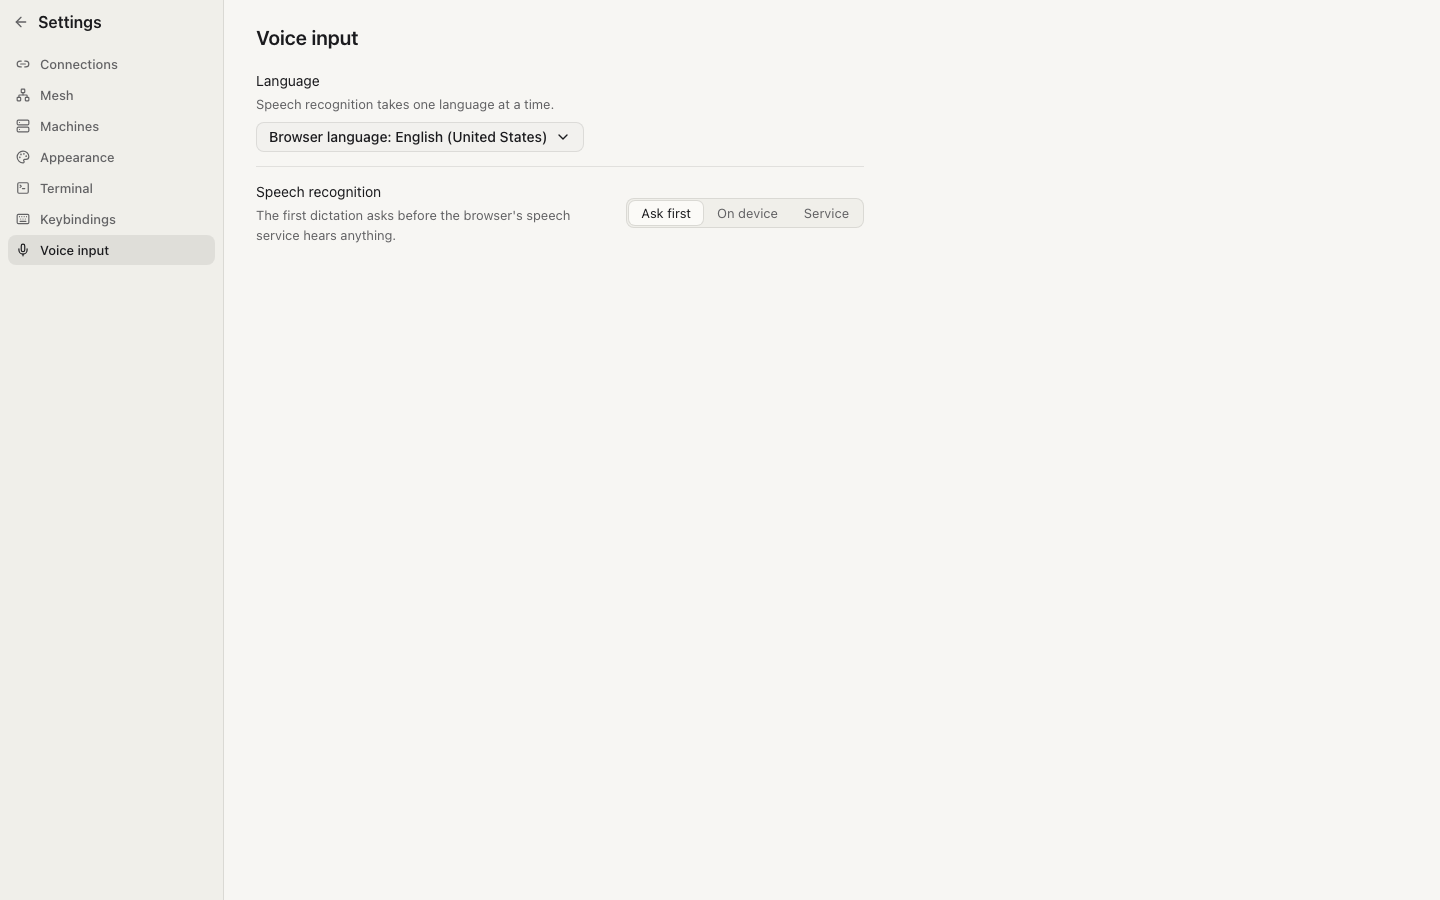
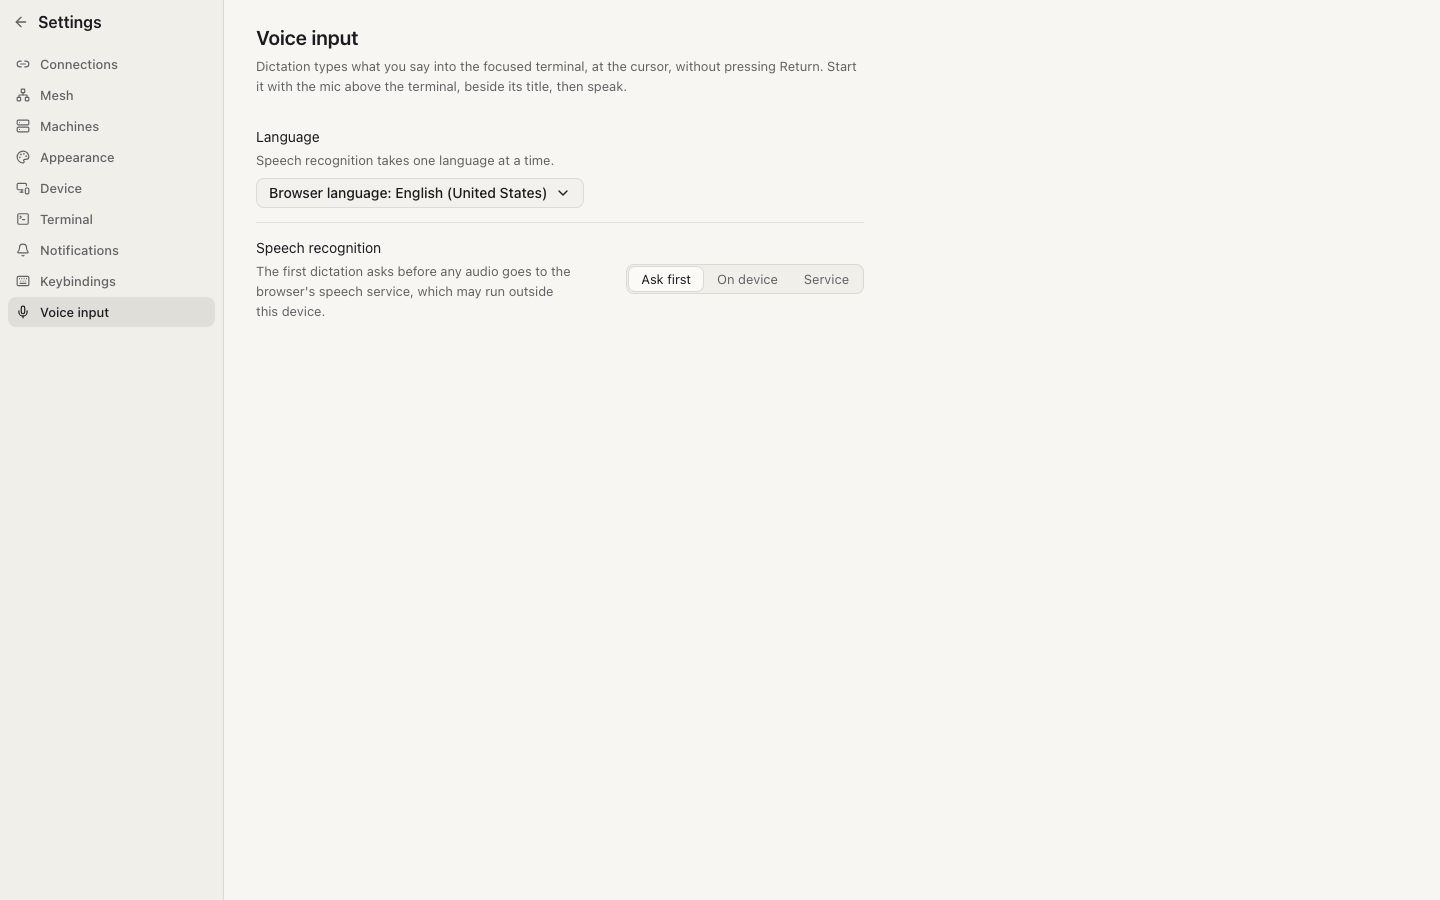
feat(web): Voice input says what dictation does and where its mic is, and says why it cannot listen here (#391) (#398)
* test(web): Settings > Voice input explains dictation, its mic and where the audio goes (#391)

* feat(web): Voice input opens with what dictation does and where its mic is, and says why it cannot listen here (#391)

* feat(web): Voice input says the desktop app cannot dictate, whose speech service refuses it (#391)

diff --git a/apps/web/src/settings/voice-section.tsx b/apps/web/src/settings/voice-section.tsx
@@ -1,8 +1,8 @@
-import { Button, Menu, MenuItem, SegmentedControl, SettingRow } from "@doriface/ui";
+import { Button, Menu, MenuItem, Notice, SegmentedControl, SettingRow } from "@doriface/ui";
 import { Check, ChevronDown } from "lucide-react";
-import { findRecognizer } from "../voice/recognizer.ts";
 import { type Engine, languageName, VOICE_LANGUAGES } from "../voice/voice-settings.ts";
 import { useVoiceSettings, voiceStore } from "../voice/voice-store.ts";
+import { type VoiceBlocked, voiceBlocked } from "./voice-support.ts";
 
 const ENGINES = [
   { value: "ask", label: "Ask first" },
@@ -11,32 +11,32 @@ const ENGINES = [
 ] as const;
 
 const ENGINE_NOTE: Readonly<Record<Engine, string>> = {
-  ask: "The first dictation asks before the browser's speech service hears anything.",
+  ask: "The first dictation asks before any audio goes to the browser's speech service, which may run outside this device.",
   device: "Only the browser's on-device recognizer listens; the audio never leaves this device.",
   service: "The browser sends the audio to its speech service, which may run outside this device.",
 };
 
-const UNAVAILABLE = {
-  unsupported: "This browser has no speech recognition.",
-  insecure: "Dictation needs a secure (https) page.",
-} as const;
+const BLOCKED: Readonly<Record<VoiceBlocked, string>> = {
+  unsupported:
+    "This browser has no speech recognition, so the mic cannot listen. Type instead, or open doriface in Chrome or Safari.",
+  insecure: "The browser only listens on a secure (https) page. Open doriface over https to dictate, or type instead.",
+  desktop: "The desktop app can't dictate yet. For dictation, use doriface in Chrome or Safari; here, type instead.",
+};
 
-/** Dictation: the language speech is recognized in, and where it is recognized. Neither keeps any audio. */
+/** Dictation: where it sends the audio, and the language and way it is recognized; nothing here keeps any audio. */
 export function VoiceSection() {
   const settings = useVoiceSettings();
-  const support = findRecognizer(window);
+  const blocked = voiceBlocked(window);
   const browser = navigator.language;
   const name = (tag: string) => (tag === "" ? `Browser language: ${languageName(browser)}` : languageName(tag));
   const listed = VOICE_LANGUAGES.includes(settings.language) || settings.language === "" ? [] : [settings.language];
   const choices = ["", ...VOICE_LANGUAGES, ...listed];
-  const reason = support.kind === "unavailable" ? UNAVAILABLE[support.why] : undefined;
-  const language = (disabled: boolean) => (
+  const language = (
     <Menu
       align="end"
       trigger={
         <Button
           variant="secondary"
-          disabled={disabled}
           aria-label={`Language, ${name(settings.language)}`}
           // A long language name gives way inside the row instead of pushing the button past the screen's edge.
           className="max-w-full min-w-0 justify-between [&>span]:max-w-full [&>span]:min-w-0"
@@ -59,30 +59,37 @@ export function VoiceSection() {
       ))}
     </Menu>
   );
-  const engine = (disabled: boolean) => (
-    <SegmentedControl<Engine>
-      label="Speech recognition"
-      options={ENGINES}
-      value={settings.engine}
-      disabled={disabled}
-      onValueChange={(next) => voiceStore.update({ engine: next })}
-    />
-  );
-  const languageNote = "Speech recognition takes one language at a time.";
-  return reason === undefined ? (
-    <>
-      <SettingRow title="Language" description={languageNote} control={language(false)} />
-      <SettingRow title="Speech recognition" description={ENGINE_NOTE[settings.engine]} control={engine(false)} />
-    </>
-  ) : (
-    <>
-      <SettingRow title="Language" description={languageNote} disabledReason={reason} control={() => language(true)} />
-      <SettingRow
-        title="Speech recognition"
-        description={ENGINE_NOTE[settings.engine]}
-        disabledReason={reason}
-        control={() => engine(true)}
-      />
-    </>
+  return (
+    <div className="flex flex-col gap-4">
+      <p data-voice-intro className="text-sm text-pretty text-muted-foreground">
+        Dictation types what you say into the focused terminal, at the cursor, without pressing Return. Start it with
+        the mic above the terminal, beside its title, then speak.
+      </p>
+      {blocked === null ? (
+        <div className="flex flex-col">
+          <SettingRow
+            title="Language"
+            description="Speech recognition takes one language at a time."
+            control={language}
+          />
+          <SettingRow
+            title="Speech recognition"
+            description={ENGINE_NOTE[settings.engine]}
+            control={
+              <SegmentedControl<Engine>
+                label="Speech recognition"
+                options={ENGINES}
+                value={settings.engine}
+                onValueChange={(next) => voiceStore.update({ engine: next })}
+              />
+            }
+          />
+        </div>
+      ) : (
+        <Notice tone="info" title="Dictation isn't available here">
+          {BLOCKED[blocked]}
+        </Notice>
+      )}
+    </div>
   );
 }

diff --git a/apps/web/e2e/settings-voice.e2e.ts b/apps/web/e2e/settings-voice.e2e.ts
@@ -1,0 +1,72 @@
+// Settings > Voice input says what dictation does and where its mic is, says where the audio goes for each way of
+// recognizing speech, and where it cannot listen at all it says so instead of showing options that do nothing (#391).
+import type { Page } from "@playwright/test";
+import { expect, test } from "./fixtures.ts";
+import { removeSpeech } from "./speech-stub.ts";
+
+/** The desktop shell's `window.doriface`, as the web app finds it in the Electron window. */
+const DESKTOP_BRIDGE = JSON.stringify({ version: "0.1.0", platform: "darwin" });
+
+const openVoiceSection = async (page: Page): Promise<void> => {
+  await page.goto("/settings");
+  await page
+    .getByRole("tab", { name: "Voice input" })
+    .or(page.getByRole("button", { name: "Voice input" }))
+    .first()
+    .click();
+  await expect(page.getByRole("heading", { name: "Voice input", level: 2 })).toBeVisible();
+};
+
+const intro = (page: Page) => page.locator("[data-voice-intro]");
+
+test("the page opens with what dictation does and where the mic that starts it is, above the options", async ({
+  page,
+}) => {
+  await openVoiceSection(page);
+  const note = intro(page);
+  await expect(note).toBeVisible();
+  await expect(note).toContainText("types what you say into the focused terminal");
+  await expect(note).toContainText("without pressing Return");
+  await expect(note).toContainText("the mic above the terminal");
+  // The explanation comes before the options it explains.
+  const noteBox = await note.boundingBox();
+  const languageBox = await page.getByText("Language", { exact: true }).first().boundingBox();
+  expect(noteBox?.y ?? -1).toBeLessThan(languageBox?.y ?? 0);
+});
+
+test("each way of recognizing speech says where the audio goes", async ({ page }) => {
+  await openVoiceSection(page);
+  await expect(page.getByText(/asks before any audio goes to the browser's speech service/)).toBeVisible();
+  await page.getByRole("button", { name: "On device", exact: true }).click();
+  await expect(page.getByText(/the audio never leaves this device/)).toBeVisible();
+  await page.getByRole("button", { name: "Service", exact: true }).click();
+  await expect(
+    page.getByText(/sends the audio to its speech service, which may run outside this device/),
+  ).toBeVisible();
+});
+
+test("where the browser has no speech recognition, the page says so instead of two dead options", async ({ page }) => {
+  await removeSpeech(page);
+  await openVoiceSection(page);
+  await expect(intro(page)).toBeVisible();
+  const notice = page.getByRole("status").filter({ hasText: "Dictation isn't available here" });
+  await expect(notice).toBeVisible();
+  await expect(notice).toContainText("This browser has no speech recognition");
+  await expect(page.getByText("Speech recognition", { exact: true })).toHaveCount(0);
+  await expect(page.getByRole("button", { name: /^Language/ })).toHaveCount(0);
+});
+
+test("in the desktop app, the page says the app cannot dictate and points at the web app", async ({ page }) => {
+  await page.addInitScript((bridge) => {
+    Reflect.set(window, "doriface", JSON.parse(bridge));
+  }, DESKTOP_BRIDGE);
+  await openVoiceSection(page);
+  // The app's Chromium has a recognizer that its speech service refuses, so no option here could work.
+  await expect(intro(page)).toBeVisible();
+  const notice = page.getByRole("status").filter({ hasText: "Dictation isn't available here" });
+  await expect(notice).toBeVisible();
+  await expect(notice).toContainText("The desktop app can't dictate yet");
+  await expect(notice).toContainText("use doriface in Chrome or Safari");
+  await expect(page.getByText("Speech recognition", { exact: true })).toHaveCount(0);
+  await expect(page.getByRole("button", { name: /^Language/ })).toHaveCount(0);
+});

diff --git a/apps/web/src/settings/voice-support.test.ts b/apps/web/src/settings/voice-support.test.ts
@@ -1,0 +1,25 @@
+import { expect, test } from "bun:test";
+import { voiceBlocked } from "./voice-support.ts";
+
+const recognizer = () => class extends EventTarget {};
+
+test("a secure page with a recognizer offers dictation", () => {
+  expect(voiceBlocked({ isSecureContext: true, SpeechRecognition: recognizer() })).toBeNull();
+  expect(voiceBlocked({ isSecureContext: true, webkitSpeechRecognition: recognizer() })).toBeNull();
+});
+
+test("no recognizer, or a page that is not secure, says which", () => {
+  expect(voiceBlocked({ isSecureContext: true })).toBe("unsupported");
+  expect(voiceBlocked({ isSecureContext: false, SpeechRecognition: recognizer() })).toBe("insecure");
+});
+
+test("the desktop app is blocked whole: its Chromium has a recognizer whose speech service refuses it", () => {
+  const bridge = { version: "0.1.0", platform: "darwin" };
+  expect(voiceBlocked({ isSecureContext: true, SpeechRecognition: recognizer(), doriface: bridge })).toBe("desktop");
+  expect(voiceBlocked({ isSecureContext: true, doriface: bridge })).toBe("desktop");
+});
+
+test("something on the page that is not the app's bridge is not the desktop app", () => {
+  expect(voiceBlocked({ isSecureContext: true, SpeechRecognition: recognizer(), doriface: {} })).toBeNull();
+  expect(voiceBlocked({ isSecureContext: true, SpeechRecognition: recognizer(), doriface: "desktop" })).toBeNull();
+});

diff --git a/apps/web/src/settings/voice-support.ts b/apps/web/src/settings/voice-support.ts
@@ -1,0 +1,25 @@
+import { findRecognizer, type Unavailable } from "../voice/recognizer.ts";
+
+/** Why this page cannot offer dictation: no recognizer here, an insecure page, or the desktop app. */
+export type VoiceBlocked = Unavailable | "desktop";
+
+interface PageScope {
+  readonly isSecureContext?: boolean;
+  readonly SpeechRecognition?: unknown;
+  readonly webkitSpeechRecognition?: unknown;
+  readonly doriface?: unknown;
+}
+
+const inDesktopShell = (scope: PageScope): boolean =>
+  typeof scope.doriface === "object" && scope.doriface !== null && "version" in scope.doriface;
+
+/**
+ * Why dictation cannot work on this page, or null where it can. The desktop app's Chromium has a recognizer, but the
+ * network speech service refuses it (`not-allowed`) and its on-device path reports unavailable — measured on Electron
+ * 45.2.1 / Chromium 156 — so the app is blocked whole rather than offered options that cannot work.
+ */
+export function voiceBlocked(scope: PageScope): VoiceBlocked | null {
+  if (inDesktopShell(scope)) return "desktop";
+  const support = findRecognizer(scope);
+  return support.kind === "unavailable" ? support.why : null;
+}

diff --git a/apps/web/e2e/capture-voice-shots.ts b/apps/web/e2e/capture-voice-shots.ts
@@ -59,4 +59,21 @@ export const VOICE_SHOTS: readonly Shot[] = [
       await expect(page.getByRole("heading", { name: "Voice input", level: 2 })).toBeVisible();
     },
   },
+  {
+    name: "settings-voice-desktop",
+    start: "connected",
+    run: async (page) => {
+      // The desktop shell's Chromium has a recognizer its speech service refuses, so the app's page says so instead.
+      await page.addInitScript(() => {
+        Reflect.set(window, "doriface", { version: "0.1.0", platform: "darwin" });
+      });
+      await page.goto("/settings");
+      await page
+        .getByRole("tab", { name: "Voice input" })
+        .or(page.getByRole("button", { name: "Voice input" }))
+        .first()
+        .click();
+      await expect(page.getByText("The desktop app can't dictate yet")).toBeVisible();
+    },
+  },
 ];
